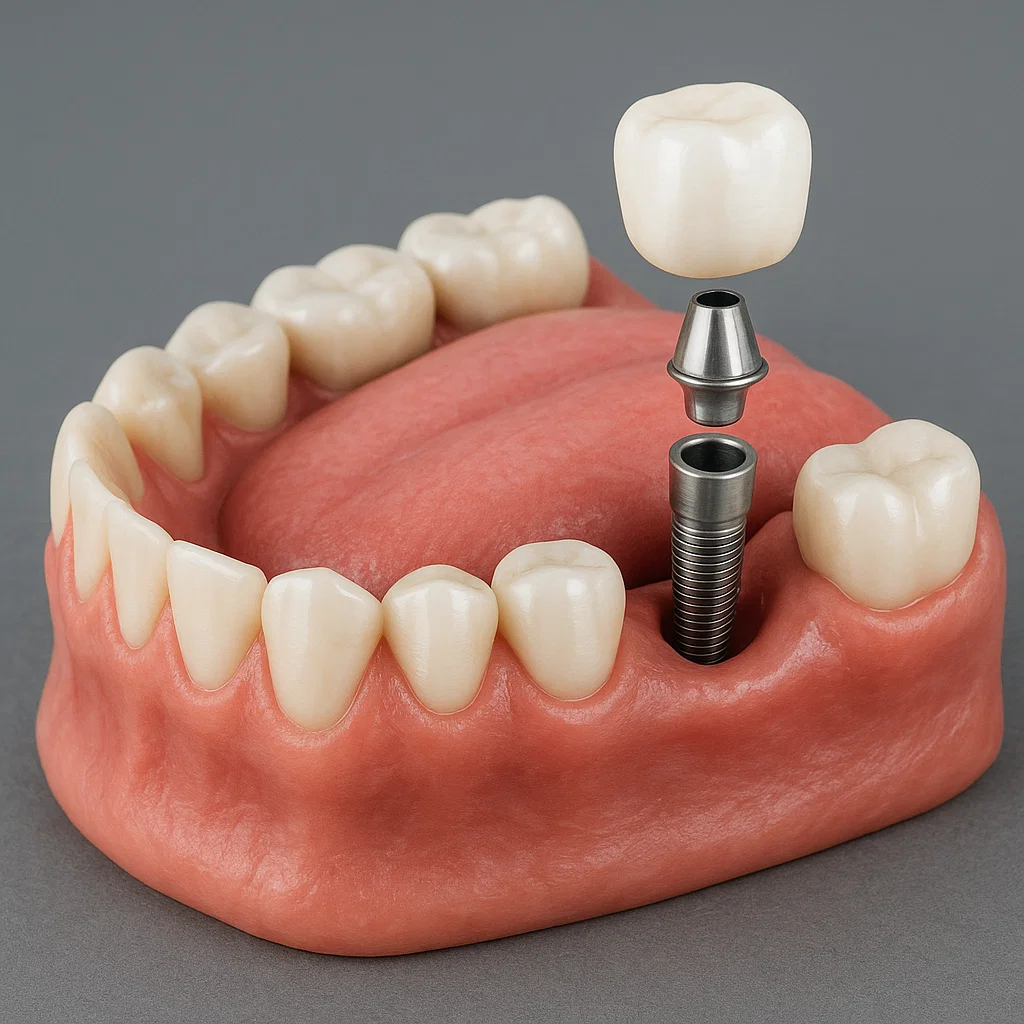
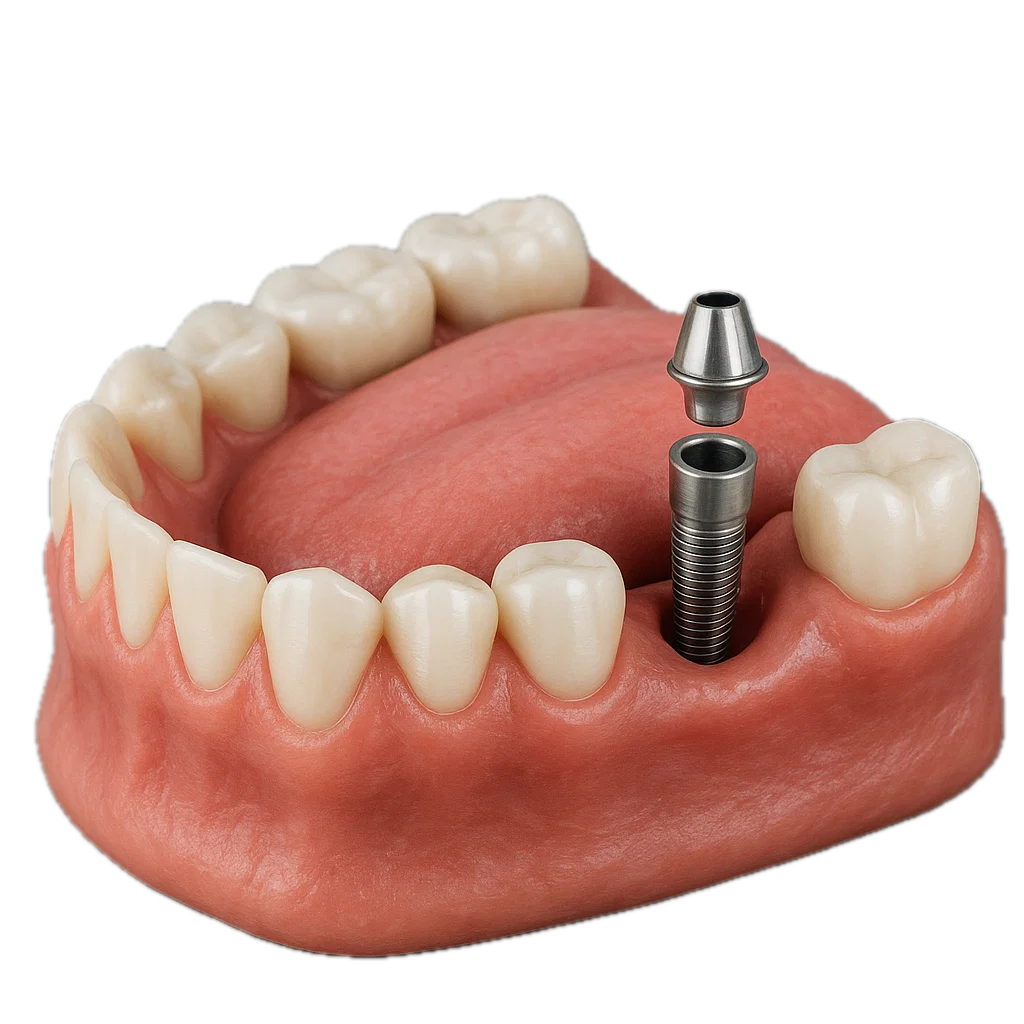
implants img

diff --git a/src/components/ImplantTypes.tsx b/src/components/ImplantTypes.tsx
@@ -59,8 +59,8 @@ export default function ImplantTypes() {
         <div className="grid md:grid-cols-2 lg:grid-cols-4 gap-6">
           {implantData.map((implant, index) => (
             <div key={index} className="bg-white text-gray-800 p-4 md:p-6 rounded-lg">
-              <div className="bg-gray-200 rounded-lg mb-4 h-48 md:h-64 flex items-center justify-center overflow-hidden">
-                <img src={implant.image} alt={implant.title} className="h-full w-full object-cover" />
+              <div className="bg-white rounded-lg mb-4 h-40 md:h-64 flex items-center justify-center">
+                <img src={implant.image} alt={implant.title} className="w-full h-full rounded-lg object-contain" />
               </div>
               <h3 className="font-bold text-center mb-3 md:text-lg">{implant.title}</h3>
               <p className="text-center mb-3 text-sm md:text-base">{implant.description}</p>
